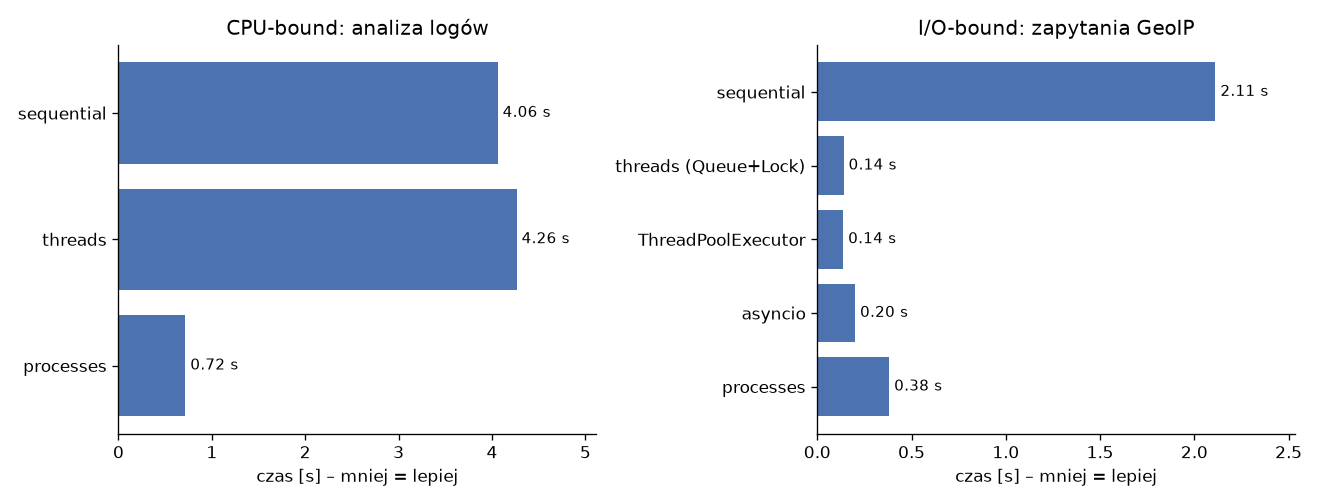
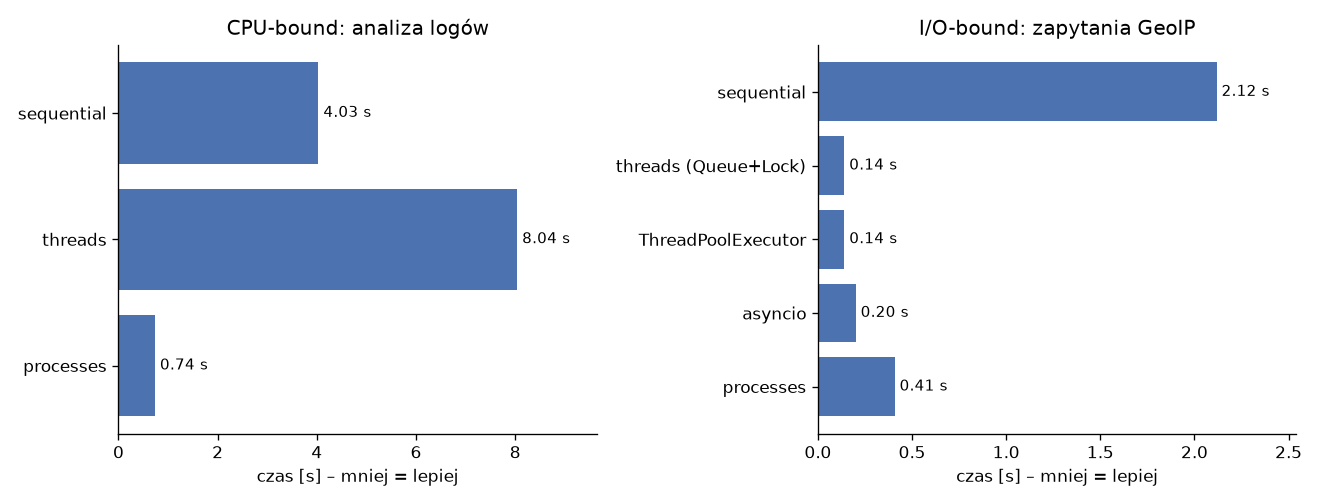
Zaktualizuj wyniki benchmarku GIL i opisz wpływ rdzeni P/E
- nowy pomiar (CPython 3.13.7, Windows 10, i7-13700KF): results.md,
  results.json, results.png oraz tabela i wnioski w README
- wariant CPU threads powtarzalnie 0,50× zamiast 0,95× – pomiar z
  przypięciem procesu do rdzeni P i E pokazuje, że to efekt procesora
  hybrydowego (rdzenie E ok. 2× wolniejsze), a sam GIL kosztuje 3–6%

diff --git a/README.md b/README.md
@@ -104,25 +104,36 @@ Zadanie I/O to 200 zapytań GeoIP po 10 ms (opóźnienie symulowane przez `time.
 
 - **Python:** CPython 3.13.7 (GIL włączony)
 - **System:** Windows 10
-- **Rdzenie CPU:** 24
+- **Procesor:** Intel Core i7-13700KF (hybrydowy: 8 rdzeni P z HT + 8 rdzeni E = 24 wątki logiczne)
 - **Workers (CPU / I/O):** 8 / 16
 
 | Obciążenie | Wariant | Najlepszy czas [s] | Mediana [s] | Przyspieszenie |
 |---|---|---:|---:|---:|
-| CPU | sequential | 4.061 | 4.075 | 1.00× |
-| CPU | threads | 4.264 | 4.275 | 0.95× |
-| CPU | processes | 0.716 | 0.718 | 5.67× |
-| I/O | sequential | 2.112 | 2.114 | 1.00× |
-| I/O | threads (Queue+Lock) | 0.140 | 0.142 | 15.13× |
-| I/O | ThreadPoolExecutor | 0.138 | 0.138 | 15.36× |
-| I/O | asyncio | 0.201 | 0.202 | 10.52× |
-| I/O | processes | 0.381 | 0.396 | 5.54× |
+| CPU | sequential | 4.032 | 4.297 | 1.00× |
+| CPU | threads | 8.040 | 8.108 | 0.50× |
+| CPU | processes | 0.737 | 0.765 | 5.47× |
+| I/O | sequential | 2.118 | 2.126 | 1.00× |
+| I/O | threads (Queue+Lock) | 0.140 | 0.141 | 15.13× |
+| I/O | ThreadPoolExecutor | 0.140 | 0.140 | 15.12× |
+| I/O | asyncio | 0.201 | 0.202 | 10.55× |
+| I/O | processes | 0.407 | 0.409 | 5.20× |
 
 ![Wyniki](benchmarks/results.png)
 
 ### Wnioski dotyczące GIL
 
-Przy zadaniu CPU-bound (regex i parsowanie dat w czystym Pythonie) wątki nie dały żadnego przyspieszenia, a były nawet trochę wolniejsze od wersji sekwencyjnej (0,95×). Powodem jest GIL: w danej chwili bajtkod Pythona wykonuje tylko jeden wątek, a pozostałe czekają na blokadę, więc przełączanie wątków jest czystym narzutem. Procesy mają osobne interpretery i osobne GIL-e, więc 8 procesów (8 plików, `default_workers` ogranicza liczbę workerów do 8 mimo 24 rdzeni) przyspieszyło analizę 5,67×. Wynik jest daleki od teoretycznych 8×, bo na Windows procesy uruchamiane są metodą `spawn` (każdy od nowa ładuje interpreter i moduły), a wyniki (`LogStats`) trzeba przesłać między procesami przez `pickle`. Przy zadaniu I/O-bound jest odwrotnie: wątek czekający na sieć lub dysk (tu `time.sleep`) zwalnia GIL, więc 16 wątków przyspieszyło pracę około 15 razy (teoretycznie 16×). To przyspieszenie nie wynika z liczby rdzeni, tylko z tego, że wątki czekają równocześnie. `asyncio` w jednym wątku i bez blokad osiągnął 10,52×, czyli mniej niż wątki. Najpewniej to efekt rozdzielczości zegara pętli zdarzeń na Windows (ok. 15,6 ms): `asyncio.sleep(0.01)` trwa w praktyce ok. 15,6 ms, a 13 rund po 16 zapytań × 15,6 ms ≈ 0,20 s, co zgadza się z pomiarem. Procesy przy I/O też działają (5,54×), ale są najwolniejsze z wariantów współbieżnych, bo uruchomienie 16 interpreterów metodą `spawn` kosztuje więcej niż samo czekanie. Wniosek praktyczny: do zadań I/O wątki lub `asyncio`, do obliczeń w czystym Pythonie procesy. Na free-threaded Pythonie (3.13t/3.14t, `sys._is_gil_enabled() == False`) wątki powinny przyspieszać także zadanie CPU-bound. Benchmark wypisuje stan GIL, więc można to sprawdzić tym samym skryptem.
+Przy zadaniu CPU-bound (regex i parsowanie dat w czystym Pythonie) wątki nie dały żadnego przyspieszenia. Powodem jest GIL: w danej chwili bajtkod Pythona wykonuje tylko jeden wątek, a pozostałe czekają na blokadę, więc przełączanie wątków jest czystym narzutem. W tym pomiarze wątki wyszły nawet 2× wolniej (0,50×), ale to w większości efekt procesora hybrydowego, a nie samego GIL – opisany niżej. Procesy mają osobne interpretery i osobne GIL-e, więc 8 procesów (8 plików, `default_workers` ogranicza liczbę workerów do 8 mimo 24 wątków logicznych) przyspieszyło analizę 5,47×. Wynik jest daleki od teoretycznych 8×, bo na Windows procesy uruchamiane są metodą `spawn` (każdy od nowa ładuje interpreter i moduły), a wyniki (`LogStats`) trzeba przesłać między procesami przez `pickle`. Przy zadaniu I/O-bound jest odwrotnie: wątek czekający na sieć lub dysk (tu `time.sleep`) zwalnia GIL, więc 16 wątków przyspieszyło pracę około 15 razy (teoretycznie 16×). To przyspieszenie nie wynika z liczby rdzeni, tylko z tego, że wątki czekają równocześnie. `asyncio` w jednym wątku i bez blokad osiągnął 10,55×, czyli mniej niż wątki. Najpewniej to efekt rozdzielczości zegara pętli zdarzeń na Windows (ok. 15,6 ms): `asyncio.sleep(0.01)` trwa w praktyce ok. 15,6 ms, a 13 rund po 16 zapytań × 15,6 ms ≈ 0,20 s, co zgadza się z pomiarem. Procesy przy I/O też działają (5,20×), ale są najwolniejsze z wariantów współbieżnych, bo uruchomienie 16 interpreterów metodą `spawn` kosztuje więcej niż samo czekanie. Wniosek praktyczny: do zadań I/O wątki lub `asyncio`, do obliczeń w czystym Pythonie procesy. Na free-threaded Pythonie (3.13t/3.14t, `sys._is_gil_enabled() == False`) wątki powinny przyspieszać także zadanie CPU-bound. Benchmark wypisuje stan GIL, więc można to sprawdzić tym samym skryptem.
+
+### Wpływ procesora hybrydowego (rdzenie P i E)
+
+W pierwszym pomiarze wariant CPU `threads` miał 4,26 s (0,95×), w kolejnych dwóch powtarzalnie ok. 8,1 s (0,50×), choć kod się nie zmienił. Przyczyną jest i7-13700KF: rdzenie energooszczędne (E) liczą ten kod mniej więcej 2× wolniej niż wydajne (P), a Windows sam decyduje, na których rdzeniach uruchamia wątki. Sprawdziłem to, przypinając proces do wybranych rdzeni (`SetProcessAffinityMask`):
+
+| Rdzenie | sequential [s] | threads [s] | threads / sequential |
+|---|---:|---:|---:|
+| tylko P (CPU 0–15) | 3.95 | 4.22 | 0.94× |
+| tylko E (CPU 16–23) | 7.86 | 8.12 | 0.97× |
+
+Na rdzeniach jednego rodzaju wątki są ok. 3–6% wolniejsze od wersji sekwencyjnej – to właściwy koszt GIL (przełączanie wątków i rywalizacja o blokadę). Wynik 0,50× w tabeli oznacza, że wątki puli trafiły na rdzenie E. Procesy tego problemu prawie nie mają, bo każdy proces Windows może osobno umieścić na wolnym rdzeniu P.
 
 > Wyniki zależą od komputera: liczby rdzeni, dysku i systemu. Powyższy pomiar pochodzi z Windows, gdzie procesy startują metodą `spawn`. Na Linuksie (`fork`/`forkserver`) uruchamianie procesów jest zwykle tańsze, więc przyspieszenie wariantu `processes` może być większe.
 

diff --git a/benchmarks/results.md b/benchmarks/results.md
@@ -7,11 +7,11 @@
 
 | Obciążenie | Wariant | Najlepszy czas [s] | Mediana [s] | Przyspieszenie |
 |---|---|---:|---:|---:|
-| CPU | sequential | 4.061 | 4.075 | 1.00× |
-| CPU | threads | 4.264 | 4.275 | 0.95× |
-| CPU | processes | 0.716 | 0.718 | 5.67× |
-| I/O | sequential | 2.112 | 2.114 | 1.00× |
-| I/O | threads (Queue+Lock) | 0.140 | 0.142 | 15.13× |
-| I/O | ThreadPoolExecutor | 0.138 | 0.138 | 15.36× |
-| I/O | asyncio | 0.201 | 0.202 | 10.52× |
-| I/O | processes | 0.381 | 0.396 | 5.54× |
+| CPU | sequential | 4.032 | 4.297 | 1.00× |
+| CPU | threads | 8.040 | 8.108 | 0.50× |
+| CPU | processes | 0.737 | 0.765 | 5.47× |
+| I/O | sequential | 2.118 | 2.126 | 1.00× |
+| I/O | threads (Queue+Lock) | 0.140 | 0.141 | 15.13× |
+| I/O | ThreadPoolExecutor | 0.140 | 0.140 | 15.12× |
+| I/O | asyncio | 0.201 | 0.202 | 10.55× |
+| I/O | processes | 0.407 | 0.409 | 5.20× |
